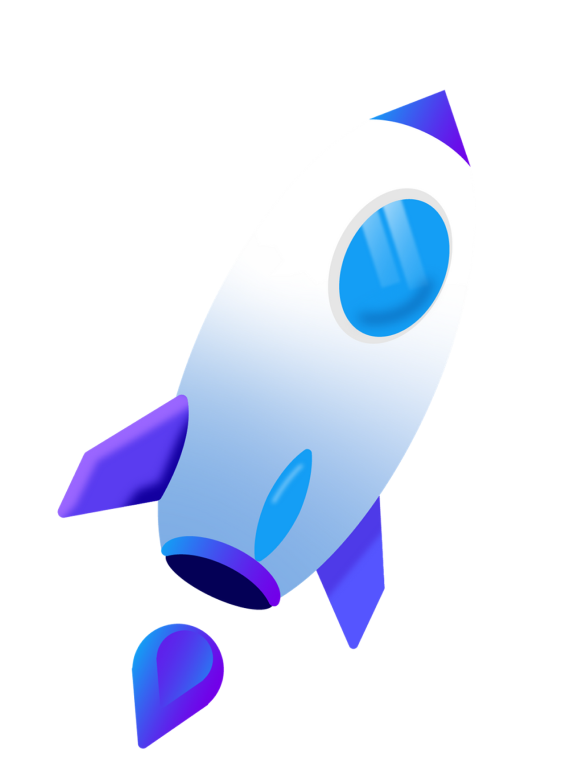
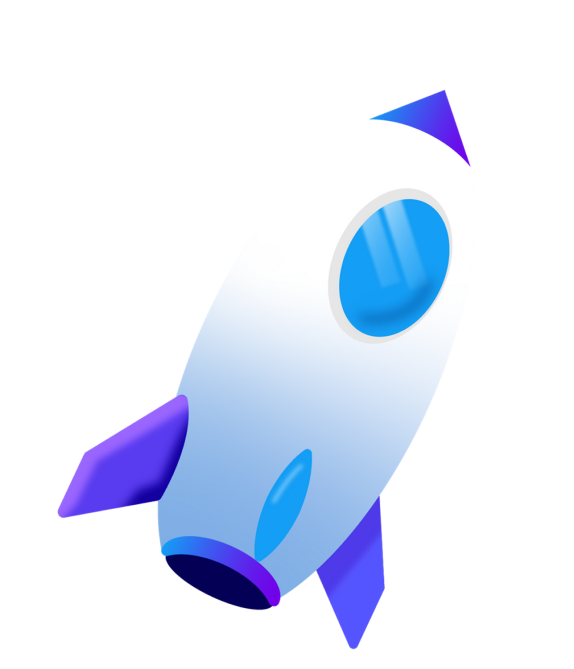
Adicionando a animaçao do foguete

Changed region(s): [[0.0889, 0.2392, 0.7997, 0.9865], [0.6516, 0.1196, 0.8293, 0.2392]]

diff --git a/tailwind.config.js b/tailwind.config.js
@@ -8,6 +8,29 @@ module.exports = {
       "Poppins" : ["Poppins", "sans-serif"]
     },
     extend: {
+      animation: {
+        'foguete': 'tremer 0.6s linear infinite',
+        'fogo': 'tremer 0.3s linear infinite',
+      },
+      keyframes : {
+        tremer : {
+          '0%' : { transform: 'translate(1px, 1px) rotate(0deg)'},
+          '10%' : { transform: 'translate(-1px, -2px) rotate(1deg)'},
+          '20%' : { transform: 'translate(-1px, 0px) rotate(1deg)'},
+          '30%' : { transform: 'translate(1px, 2px) rotate(0deg)'},
+          '40%' : { transform: 'translate(1px, -1px) rotate(1deg)'},
+          '50%' : { transform: 'translate(-1px, 2px) rotate(1deg)'},
+          '60%' : { transform: 'translate(-1px, 1px) rotate(0deg)'},
+          '70%' : { transform: 'translate(1px, 1px) rotate(1deg)'},
+          '80%' : { transform: 'translate(-1px, -1px) rotate(0deg)'},
+          '90%' : { transform: 'translate(1px, 1px) rotate(1deg)'},
+          '100%' : { transform: 'translate(1px, -1px) rotate(0deg)'},
+        },
+        pulsar : {
+          '0%': { transform : ''},
+          '50%': { transform : 'scale(1.1)'},
+        }
+      },
       colors: {
         'verdeGoUp' : '#48CFAE',
         'brancoGoUp' : '#F1F1F1',

diff --git a/src/components/Section02.js b/src/components/Section02.js
@@ -1,10 +1,14 @@
 import Foguete from '../assets/foguete.png'
+import Fogo from '../assets/fogo.png'
 import '../index.css';
 
 function Section02(){
     return (
         <section id="sobre" class="flex flex-row justify-center gap-20">
-            <img src={`${Foguete}`}></img>
+            <div class="">
+                <img src={`${Foguete}`} class="animate-foguete"></img>
+                <img src={`${Fogo}`} class="mx-20 -mt-14 animate-fogo"></img>
+            </div>
             <div class="flex flex-col justify-center items-center w-2/6">
                 <p class="text-7xl">Com a gente seu negócio <span className="letraDestaqueVerde">decola</span></p>
                 <p class="font-extralight mt-10">Oferecemos soluções personalizadas para seus problemas</p>

diff --git a/src/index.css b/src/index.css
@@ -41,3 +41,4 @@ code {
   font-weight: bold;
   color: "#48CFAE";
 }
+
